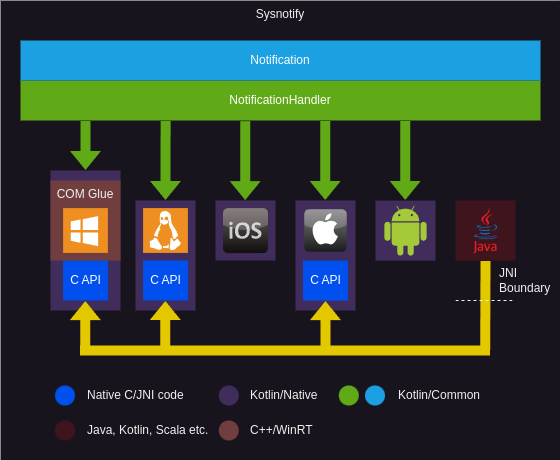
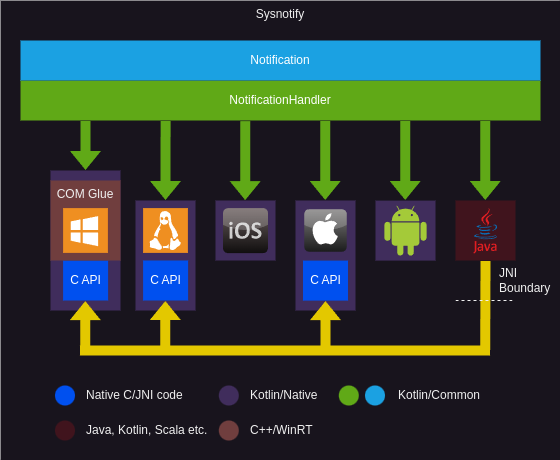
Start adding documentation & fix mistake in arch diagram

Changed region(s): [[0.85, 0.2435, 0.9107, 0.4261], [0.1518, 0.913, 0.3643, 0.9435], [0.1518, 0.8522, 0.3339, 0.8826]]

diff --git a/sysnotify/src/commonMain/kotlin/de/connect2x/sysnotify/SysNotify.kt b/sysnotify/src/commonMain/kotlin/de/connect2x/sysnotify/SysNotify.kt
@@ -15,17 +15,24 @@
 
 package de.connect2x.sysnotify
 
-import com.benasher44.uuid.Uuid
-import com.benasher44.uuid.uuid4
-
+/**
+ * A complete list of all platforms supported by Sysnotify.
+ * The current platform can be queried from every [NotificationHandler] instance
+ * via the [NotificationHandler.platform] property.
+ */
 enum class NotificationPlatform {
     ANDROID,
-    APPLE,
+    APPLE, // This includes iOS and macOS
     JVM,
     LINUX,
     WINDOWS
 }
 
+/**
+ * A data class describing the capabilities of a given [NotificationHandler] instance.
+ * Each flag indicates whether a feature is supported.
+ * The [isSupported] flag indicates if notifications are supported on the current platform at all.
+ */
 data class NotificationCapabilities(
     val isTitleSupported: Boolean,
     val isDescriptionSupported: Boolean,
@@ -70,8 +77,24 @@ data class Notification(
 
 }
 
+/**
+ * This interface describes a notification that was created by an [NotificationHandler] instance
+ * on any given platform.
+ */
 interface NotificationHandle
 
+/**
+ * This interface provides platform-agnostic functions to interact with the OSs notifications.
+ * It allows pushing, updating and popping notifications based on the supported platform feature set.
+ * A single application may create multiple notification handlers to act as different notification "channels",
+ * much like on a system like Android.
+ *
+ * Since this API may invoke native/foreign APIs which may allocate unmanaged heap memory,
+ * this interface extends [AutoCloseable] to allow closing notification handlers when the lifecycle
+ * of the process using it ends.
+ * It is very important to invoke the provided [close] function in order to free up allocated resources,
+ * otherwise a memory leak might occur based on the implementation.
+ */
 @OptIn(ExperimentalStdlibApi::class)
 interface NotificationHandler : AutoCloseable {
     val name: String
@@ -83,11 +106,6 @@ interface NotificationHandler : AutoCloseable {
     fun push(notification: Notification): NotificationHandle?
     fun pop(handle: NotificationHandle)
 
-    fun popIfSupported(handle: NotificationHandle) {
-        if (!capabilities.isPopSupported) throw IllegalStateException("Pop is not supported on $platform")
-        pop(handle)
-    }
-
     fun update(handle: NotificationHandle, notification: Notification): NotificationHandle? {
         pop(handle)
         return push(notification)
@@ -96,6 +114,17 @@ interface NotificationHandler : AutoCloseable {
     override fun close() {}
 }
 
+/**
+ * This function is used to create a new notification handler instance
+ * identified by the given name and optionally associated with the given context.
+ *
+ * @param name The name identifying this notification handler. Should be globally (system-wide) unique.
+ *  On Android, this is also the name of the underlying `NotificationChannel`, so it can be used to
+ *  retrieve an instance of said channel after creating the notification handler instance if needed.
+ * @param context An optional context reference passed to the underlying implementation.
+ *  Currently, this is only used on Android for passing in the `Context` instance from the activity.
+ * @return A new notification handler instance with the given name (and context).
+ */
 expect fun createNotificationHandler(
     name: String,
     context: Any? = null
